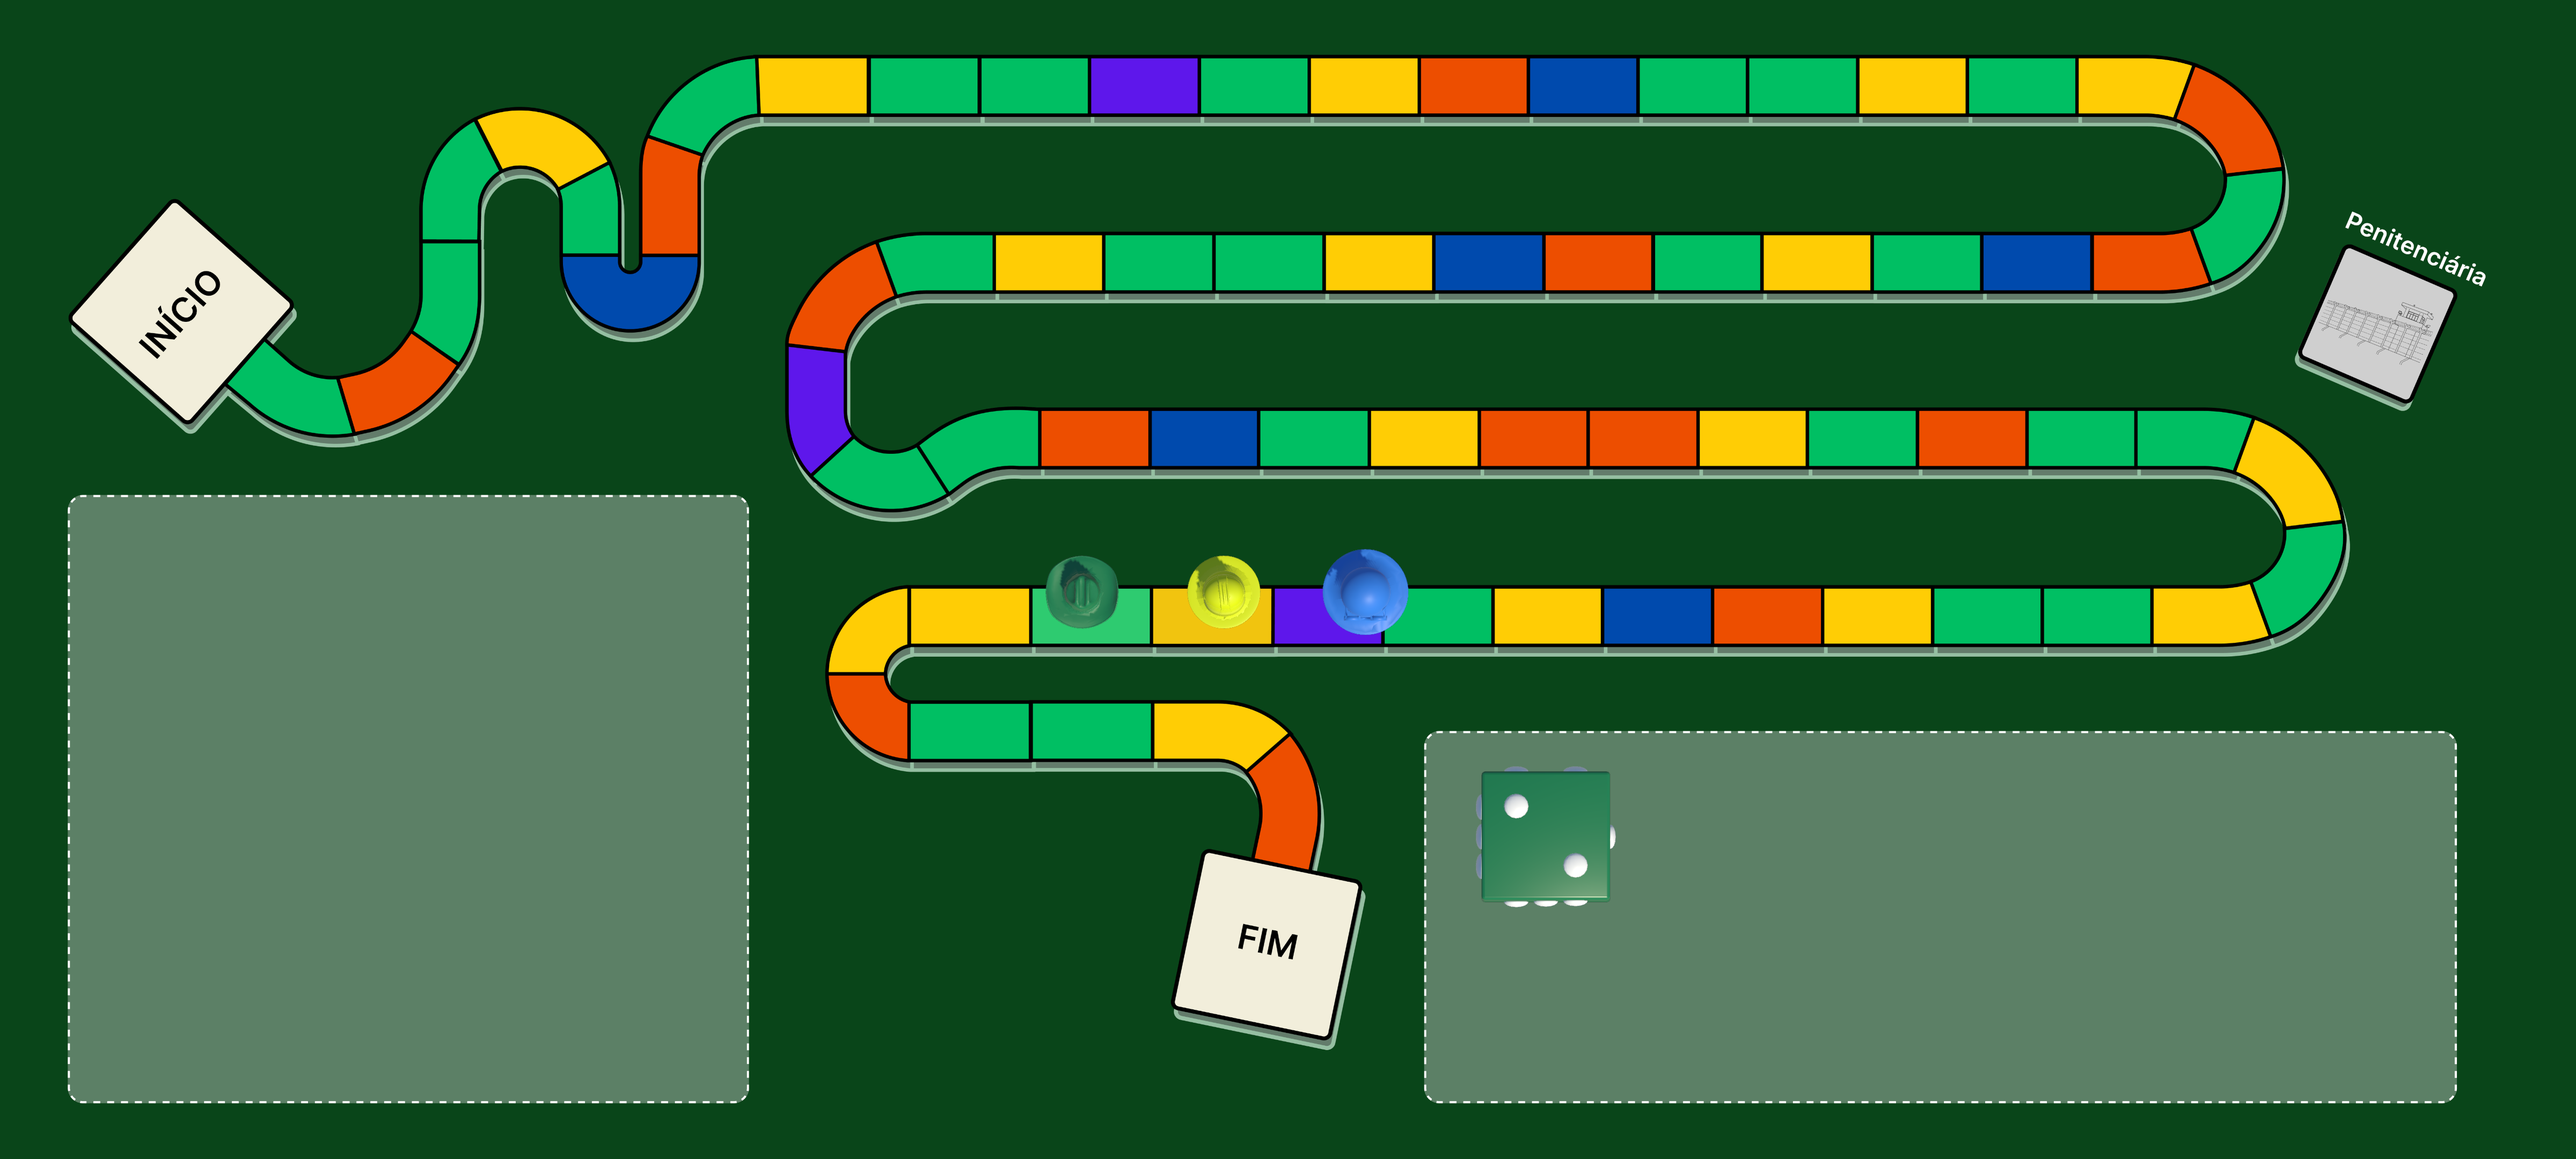
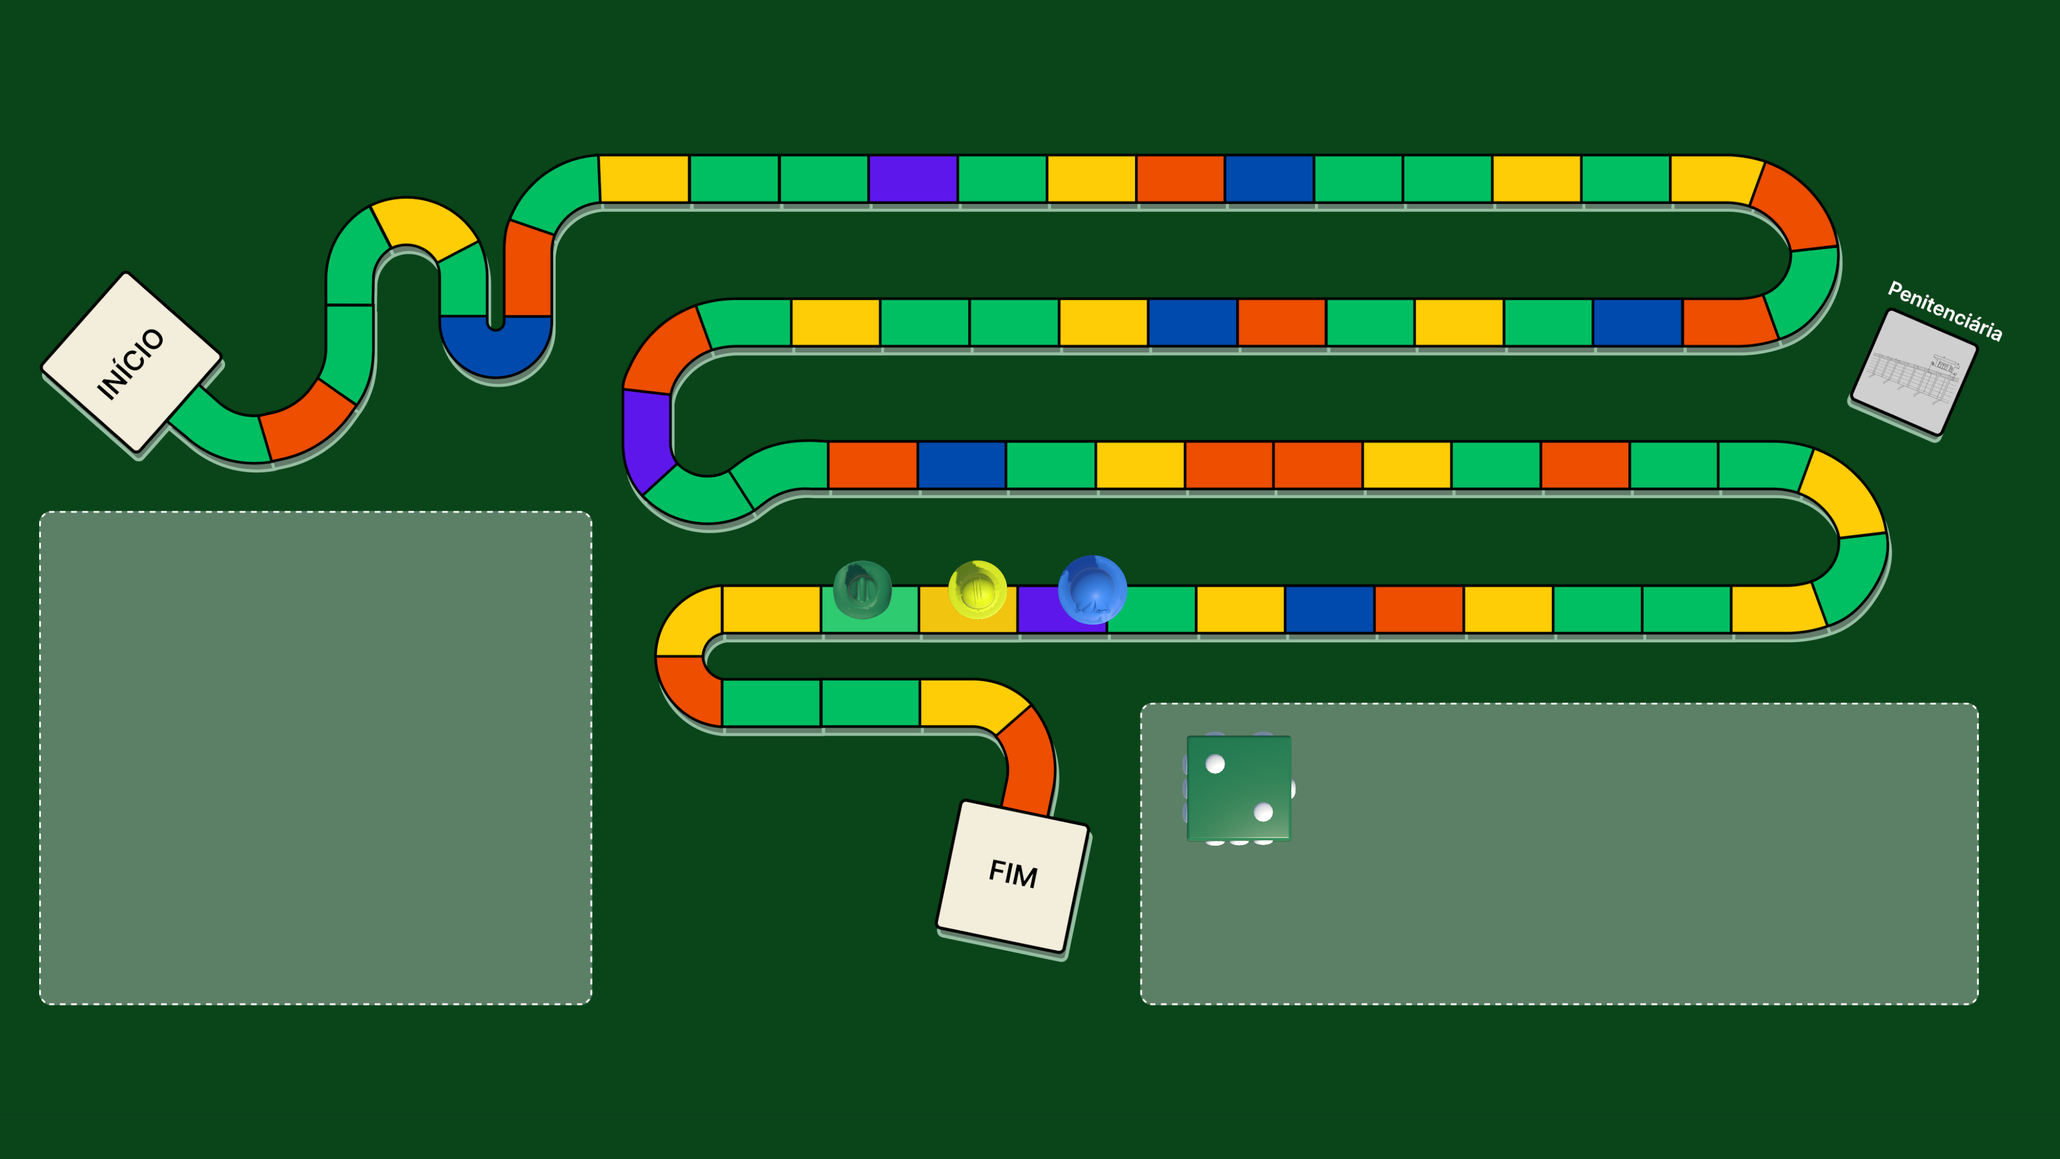
docs: refresh README screenshots and mark the Product cards as done
Screenshots (EN and PT):
- estado-atual-tabuleiro.png: new full-board capture with the new Cientista pawn.
- peoes-no-tabuleiro.png (new): close-up of the three pawns on the board.
- cartas-do-jogo.png (new): front and back of one card of each type (Agricultura - Action, Apoio da Rede de Produtores - Luck or Setback, Sobre a Agricultura - Question, Acai - Product).
- Removed the two old pawn previews (screenshot-20260702-*.png) and the Action-only image (cartas-de-acao.png).

Text:
- Product card artwork and data marked as done (75 cards, category IDs 1 to 11).
- Project structure lists the prefabs and ScriptableObjects of the four card types.

diff --git a/README.md b/README.md
@@ -48,18 +48,17 @@ The game features a rich set of physical and digital components:
 ## Screenshots
 
 <div align="center">
-<img src="Assets/Screenshots/screenshot-20260702-144117.png" alt="3D pawn models preview" width="400"/>
-<img src="Assets/Screenshots/screenshot-20260702-150610.png" alt="3D pawn models preview" width="400"/>
-<br/>
-<sub>3D pawn models (Agrônomo, Químico, Cientista) previewed in the Unity Editor</sub>
-<br/><br/>
 <img src="Assets/Screenshots/estado-atual-tabuleiro.png" alt="Current board prototype in the Unity Game view" width="800"/>
 <br/>
-<sub>Current board prototype (Unity Game view, landscape): path with colored houses, START, FINISH, Penitentiary, the dice and the three pawns standing on the board</sub>
+<sub>Current board prototype (Unity Game view, landscape, full-board camera): path with colored houses, START, FINISH, Penitentiary, the dice and the three pawns standing on the board</sub>
 <br/><br/>
-<img src="Assets/Screenshots/cartas-de-acao.png" alt="Action cards, front and back" width="800"/>
+<img src="Assets/Screenshots/peoes-no-tabuleiro.png" alt="The three 3D pawns on the board" width="800"/>
 <br/>
-<sub>Action card artwork (front on top, back below), exported from Canva with a transparent background. 6 of the 36 cards shown</sub>
+<sub>The three 3D pawns on the board: Engenheiro Agrônomo (green), Engenheiro Químico (yellow) and Cientista (blue, with the new hair)</sub>
+<br/><br/>
+<img src="Assets/Screenshots/cartas-do-jogo.png" alt="One card of each type, front and back" width="800"/>
+<br/>
+<sub>One card of each type, front and back: Action, Luck or Setback, Question and Bioeconomic Product</sub>
 </div>
 
 ---
@@ -74,14 +73,14 @@ The game features a rich set of physical and digital components:
 - [x] Action card artwork (36 cards, front and back, transparent PNG)
 - [x] Luck or Setback card artwork (26 cards and a shared back, transparent PNG)
 - [x] Question card artwork (47 cards and a shared back, transparent PNG)
-- [ ] Product card artwork
+- [x] Product card artwork (75 cards, front and back, transparent PNG; each product has a category ID from 1 to 11)
 - [ ] Banknote artwork
 - [x] Unity project initialized with Android mobile configuration
 - [x] Project folder structure organized
 - [x] Scene folders organized: Main Menu, Standard Game, Tutorial (scenes still to be built)
 - [x] Board prototype scene (`SampleScene`): board, dice and pawns
 - [ ] Game logic implementation (C# scripts)
-- [x] Action, Luck/Setback and Question card data (ScriptableObjects) and card UI prefabs
+- [x] Action, Luck/Setback, Question and Product card data (ScriptableObjects) and card UI prefabs
 - [ ] Card system and deck mechanics
 - [ ] In-game currency system
 - [x] Board camera controller (follows the moving pawn, then shows the full board)
@@ -120,7 +119,7 @@ Assets/
 │   │   │   │   ├── Actions/   # 36 action cards (Front/ and Back/)
 │   │   │   │   ├── LuckSetback/ # 26 Luck/Setback cards (Front/) + shared back (Back/)
 │   │   │   │   ├── Questions/ # 47 Question cards (Front/) + shared back (Back/)
-│   │   │   │   └── Products/  # Front/back product card art
+│   │   │   │   └── Products/  # 75 product cards (Front/ and Back/)
 │   │   │   ├── Logo/          # Game logo
 │   │   │   ├── Tutorial/
 │   │   │   └── UI/
@@ -130,8 +129,8 @@ Assets/
 │   │           ├── Models/    # Engenheiro_Agronomo, Engenheiro_Químico, Cientista
 │   │           └── Textures/
 │   ├── Audio/                 # Music and sound effects
-│   ├── Prefabs/                # Reusable game objects (Cards/ActionCard)
-│   ├── SciptableObjects/       # Game data (Cards/Actions: 36 action card assets)
+│   ├── Prefabs/                # Reusable game objects (Cards/ActionCard, LuckSetbackCard, QuestionCard, ProductCard)
+│   ├── SciptableObjects/       # Game data (Cards/Actions 36, LuckSetback 26, Questions 47, Products 75)
 │   └── Scripts/                # C# game logic (Banknotes, Board_Game, Cards, Editor, GameManager, Pawns, Tutorial, UI)
 ├── Scenes/
 │   ├── SampleScene             # Current board prototype (board, dice, pawns)
@@ -231,18 +230,17 @@ O jogo conta com um conjunto rico de componentes físicos e digitais:
 ## Capturas de Tela
 
 <div align="center">
-<img src="Assets/Screenshots/screenshot-20260702-144117.png" alt="Prévia dos modelos 3D dos peões" width="400"/>
-<img src="Assets/Screenshots/screenshot-20260702-150610.png" alt="Prévia dos modelos 3D dos peões" width="400"/>
-<br/>
-<sub>Modelos 3D dos peões (Agrônomo, Químico, Cientista) visualizados no Unity Editor</sub>
-<br/><br/>
 <img src="Assets/Screenshots/estado-atual-tabuleiro.png" alt="Protótipo atual do tabuleiro na Game View do Unity" width="800"/>
 <br/>
-<sub>Protótipo atual do tabuleiro (Game View do Unity, modo paisagem): trilha com casas coloridas, INÍCIO, FIM, Penitenciária, o dado e os três peões sobre o tabuleiro</sub>
+<sub>Protótipo atual do tabuleiro (Game View do Unity, modo paisagem, câmera com o tabuleiro inteiro): trilha com casas coloridas, INÍCIO, FIM, Penitenciária, o dado e os três peões sobre o tabuleiro</sub>
 <br/><br/>
-<img src="Assets/Screenshots/cartas-de-acao.png" alt="Cartas de Ação, frente e verso" width="800"/>
+<img src="Assets/Screenshots/peoes-no-tabuleiro.png" alt="Os três peões 3D sobre o tabuleiro" width="800"/>
 <br/>
-<sub>Arte das cartas de Ação (frente em cima, verso embaixo), exportadas do Canva com fundo transparente. 6 das 36 cartas</sub>
+<sub>Os três peões 3D sobre o tabuleiro: Engenheiro Agrônomo (verde), Engenheiro Químico (amarelo) e Cientista (azul, com o novo cabelo)</sub>
+<br/><br/>
+<img src="Assets/Screenshots/cartas-do-jogo.png" alt="Uma carta de cada tipo, frente e verso" width="800"/>
+<br/>
+<sub>Uma carta de cada tipo, frente e verso: Ação, Sorte ou Revés, Questões e Produto Bioeconômico</sub>
 </div>
 
 ---
@@ -257,14 +255,14 @@ O jogo conta com um conjunto rico de componentes físicos e digitais:
 - [x] Arte das cartas de Ação (36 cartas, frente e verso, PNG transparente)
 - [x] Arte das cartas de Sorte ou Revés (26 cartas e um verso comum, PNG transparente)
 - [x] Arte das cartas de Questões (47 cartas e um verso comum, PNG transparente)
-- [ ] Arte das cartas de Produto
+- [x] Arte das cartas de Produto (75 cartas, frente e verso, PNG transparente; cada produto tem um ID de categoria de 1 a 11)
 - [ ] Arte das cédulas
 - [x] Projeto Unity inicializado com configuração mobile Android
 - [x] Estrutura de pastas do projeto organizada
 - [x] Pastas das cenas organizadas: Menu Principal, Jogo Padrão, Tutorial (cenas ainda a construir)
 - [x] Cena de protótipo do tabuleiro (`SampleScene`): tabuleiro, dado e peões
 - [ ] Implementação da lógica do jogo (scripts C#)
-- [x] Dados das cartas de Ação, de Sorte ou Revés e de Questões (ScriptableObjects) e prefabs de UI das cartas
+- [x] Dados das cartas de Ação, de Sorte ou Revés, de Questões e de Produto (ScriptableObjects) e prefabs de UI das cartas
 - [ ] Sistema de cartas e mecânica de baralho
 - [ ] Sistema de moeda do jogo
 - [x] Controlador de câmera do tabuleiro (segue o peão em movimento e depois mostra o tabuleiro inteiro)
@@ -303,7 +301,7 @@ Assets/
 │   │   │   │   ├── Actions/   # 36 cartas de Ação (Front/ e Back/)
 │   │   │   │   ├── LuckSetback/ # 26 cartas de Sorte ou Revés (Front/) + verso comum (Back/)
 │   │   │   │   ├── Questions/ # 47 cartas de Questões (Front/) + verso comum (Back/)
-│   │   │   │   └── Products/  # Arte das cartas (frente/verso)
+│   │   │   │   └── Products/  # 75 cartas de Produto (Front/ e Back/)
 │   │   │   ├── Logo/          # Logo do jogo
 │   │   │   ├── Tutorial/
 │   │   │   └── UI/
@@ -313,8 +311,8 @@ Assets/
 │   │           ├── Models/    # Engenheiro_Agronomo, Engenheiro_Químico, Cientista
 │   │           └── Textures/
 │   ├── Audio/                 # Músicas e efeitos sonoros
-│   ├── Prefabs/                # Objetos reutilizáveis do jogo (Cards/ActionCard)
-│   ├── SciptableObjects/       # Dados do jogo (Cards/Actions: 36 assets de cartas de Ação)
+│   ├── Prefabs/                # Objetos reutilizáveis do jogo (Cards/ActionCard, LuckSetbackCard, QuestionCard, ProductCard)
+│   ├── SciptableObjects/       # Dados do jogo (Cards/Actions 36, LuckSetback 26, Questions 47, Products 75)
 │   └── Scripts/                # Lógica C# do jogo (Banknotes, Board_Game, Cards, Editor, GameManager, Pawns, Tutorial, UI)
 ├── Scenes/
 │   ├── SampleScene             # Protótipo atual (tabuleiro, dado, peões)
